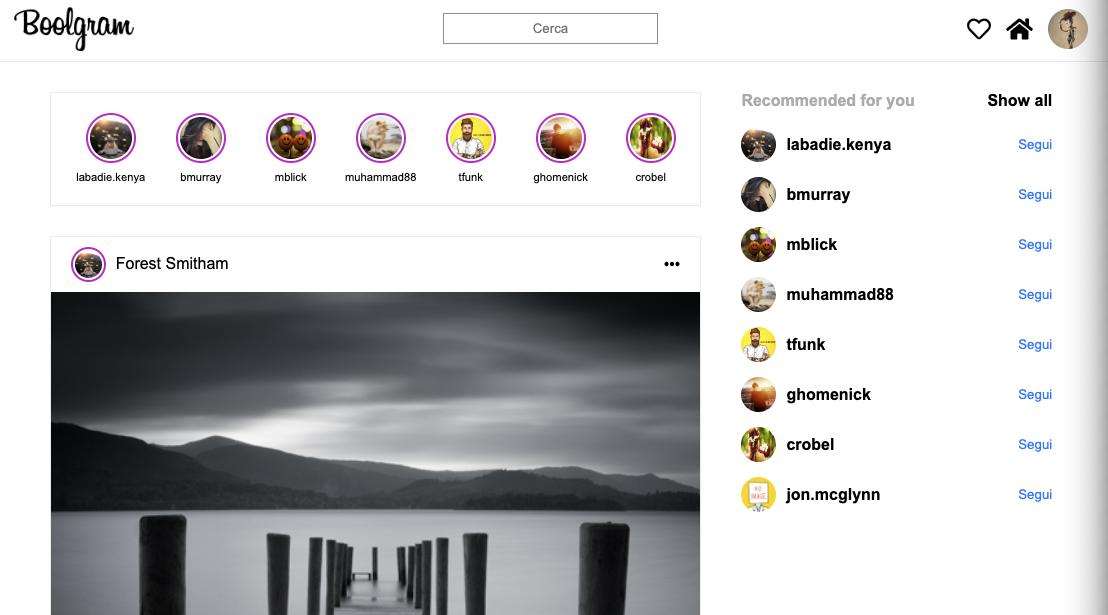
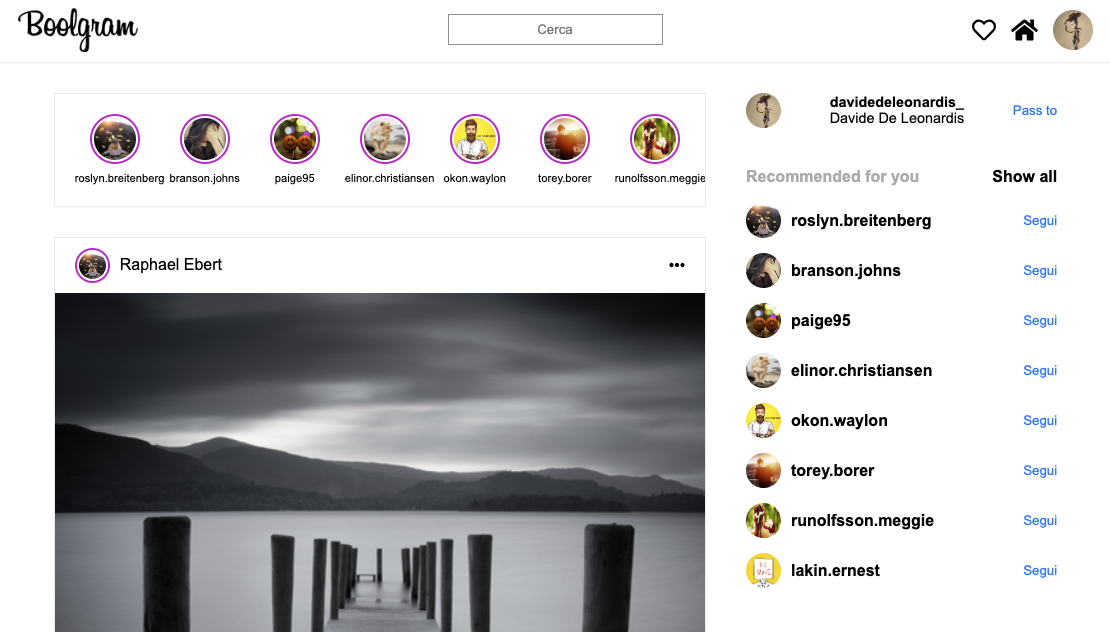
refactoring

diff --git a/src/components/Aside/Profile.vue b/src/components/Aside/Profile.vue
@@ -1,4 +1,18 @@
-<template></template>
+<template>
+   <div class="profile">
+      <img src="../../assets/images/profile.jpg" alt="img profile" />
+      <div>
+         <a
+            href="https://www.instagram.com/davidedeleonardis_/"
+            target="_blank"
+            class="bold"
+            >davidedeleonardis_</a
+         >
+         <div>Davide De Leonardis</div>
+      </div>
+      <button>Pass to</button>
+   </div>
+</template>
 
 <script>
 export default {
@@ -6,4 +20,6 @@ export default {
 };
 </script>
 
-<style scoped lang="scss"></style>
+<style scoped lang="scss">
+@import "@/assets/scss/layout/aside";
+</style>

diff --git a/src/assets/scss/layout/_aside.scss b/src/assets/scss/layout/_aside.scss
@@ -1,5 +1,21 @@
 @import "../mixins";
 
+.profile {
+   @include flex($justify: space-between);
+   margin-bottom: 40px;
+
+   img {
+      width: 35px;
+      height: 35px;
+      border-radius: 50%;
+      cursor: pointer;
+   }
+
+   & > div {
+      font-size: 0.9em;
+   }
+}
+
 .heading {
    @include flex($justify: space-between);
    margin-bottom: 10px;
@@ -23,8 +39,7 @@
          cursor: pointer;
       }
    }
-
-   button {
-      color: var(--blue);
-   }
+}
+button {
+   color: var(--blue);
 }

diff --git a/src/components/Main/Storie.vue b/src/components/Main/Storie.vue
@@ -1,6 +1,9 @@
 <template>
    <li class="storie">
-      <img :src="storie.profile_picture" :alt="`${storie.profile_name} image`" /><br>
+      <img
+         :src="storie.profile_picture"
+         :alt="`${storie.profile_name} image`"
+      /><br />
       <span>{{ storie.profile_name }}</span>
    </li>
 </template>

diff --git a/src/components/Aside/Suggestions.vue b/src/components/Aside/Suggestions.vue
@@ -1,5 +1,5 @@
 <template>
-   <div>
+   <section>
       <div class="heading">
          <h4>Recommended for you</h4>
          <span class="bold">Show all</span>
@@ -12,7 +12,7 @@
             :profile="profile"
          />
       </ul>
-   </div>
+   </section>
 </template>
 
 <script>

diff --git a/src/components/Main/Main.vue b/src/components/Main/Main.vue
@@ -6,8 +6,8 @@
 </template>
 
 <script>
-import Stories from "./Stories.vue";
-import Posts from "./Posts.vue";
+import Stories from "./Stories";
+import Posts from "./Posts/Posts";
 
 export default {
    name: "Main",

diff --git a/README.md b/README.md
@@ -1,9 +1,8 @@
 # Vue-boolgram
 
-## Instagram web home page made with Vue CLI; possibility of liking posts, adding comments, show all comments
-<a href="https://vue-boolgram.web.app" target="_blank">- SITE PREVIEW -</a><br><br>
+## Instagram web's home page made with Vue CLI; possibility of liking posts, adding comments, show all comments
+### <a href="https://vue-boolgram.web.app" target="_blank">- SITE PREVIEW -</a><br><br>
 Soon:
-- Opening stories
 - Skeleton loading
 - Loading only some posts, when arriving at the end of the page loading others
 
@@ -20,4 +19,4 @@ npm run serve
 ```
 
 ### Screens
-<img src="./src/assets/images/Boolgram.png" />
+<img src="./src/assets/images/boolgram.png" />
